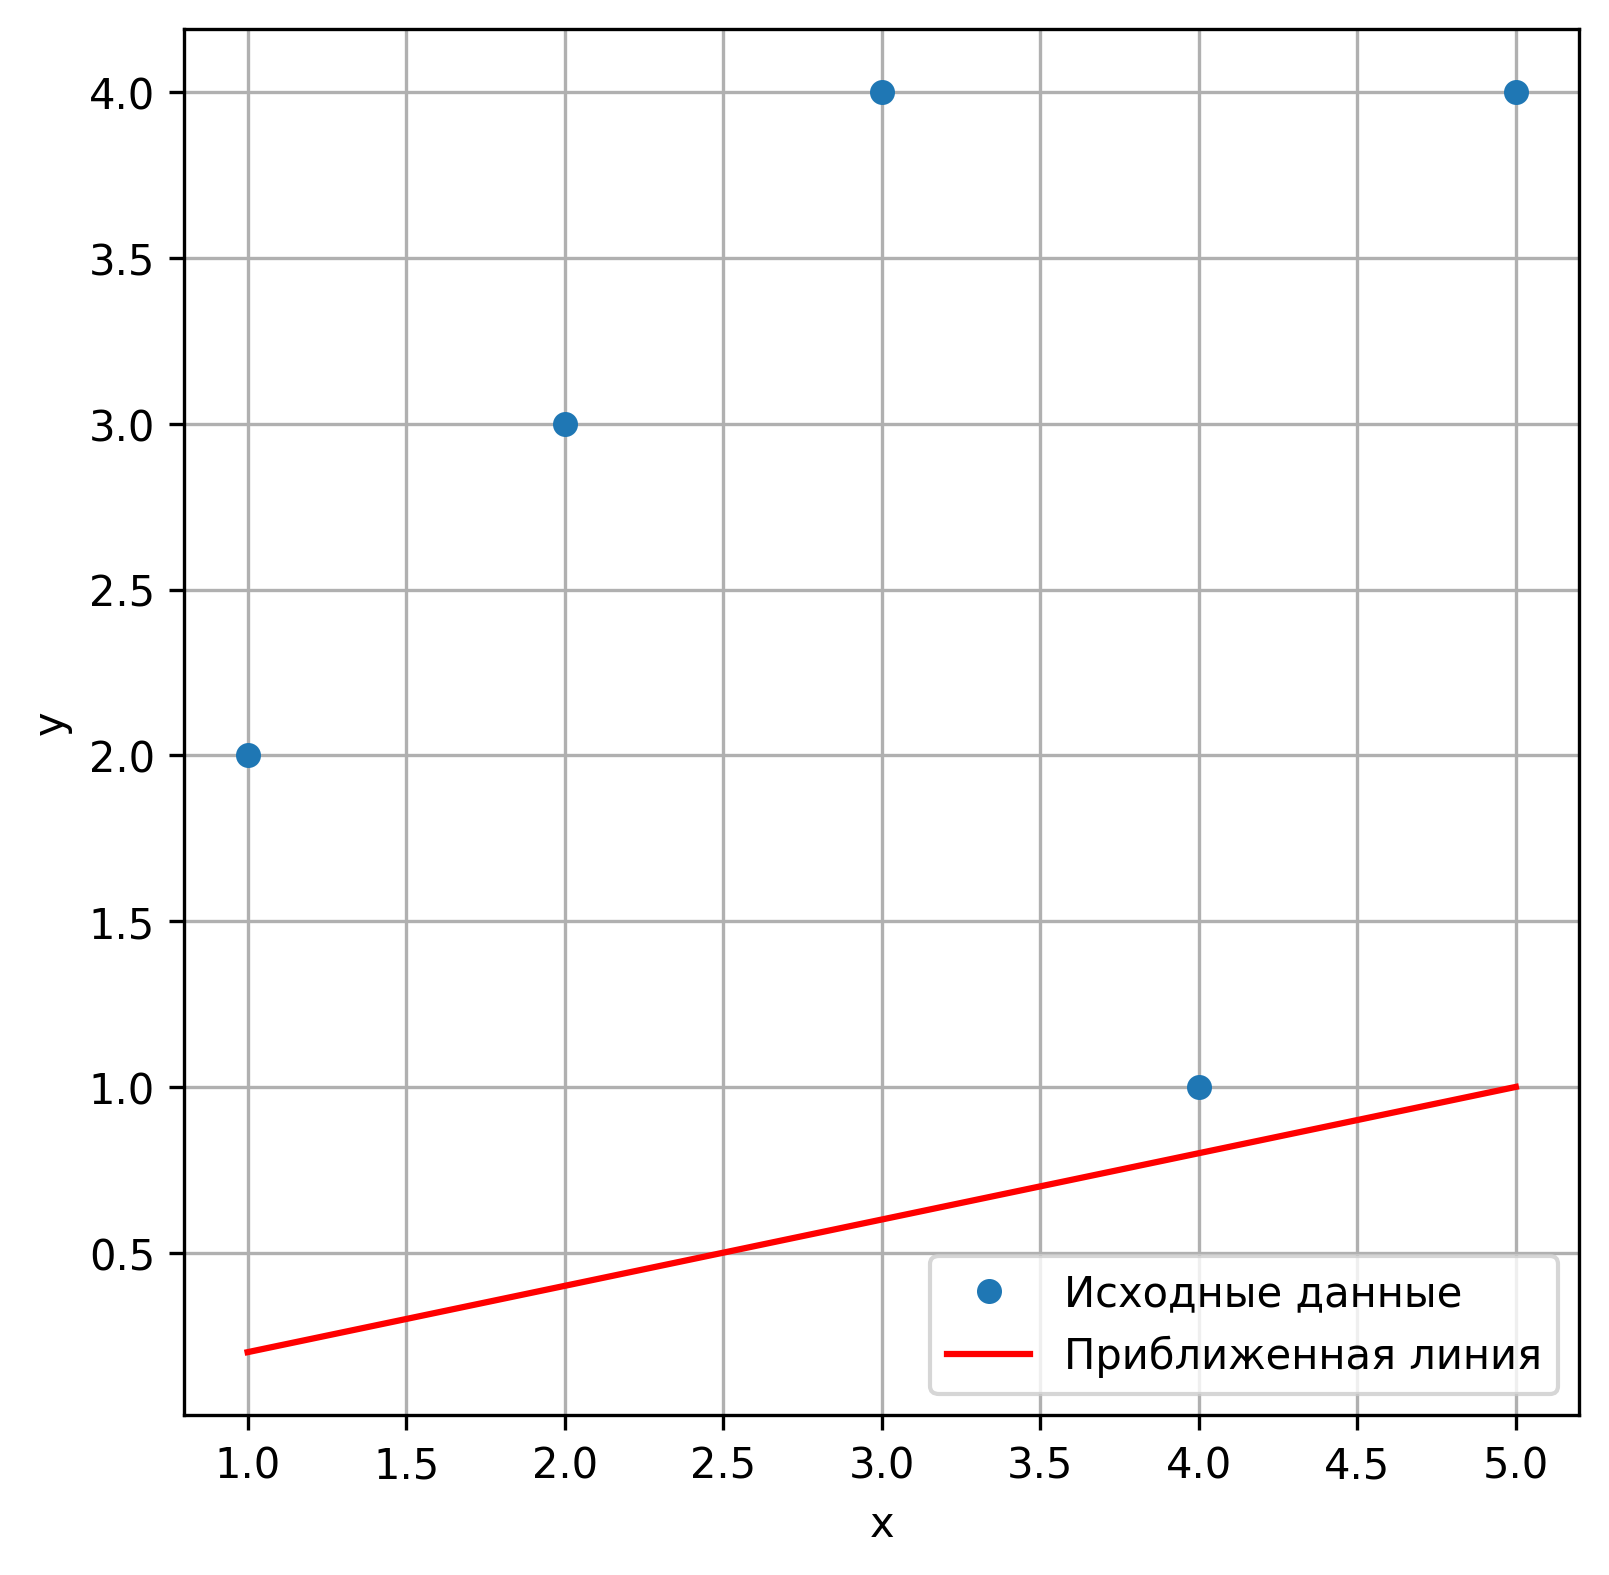
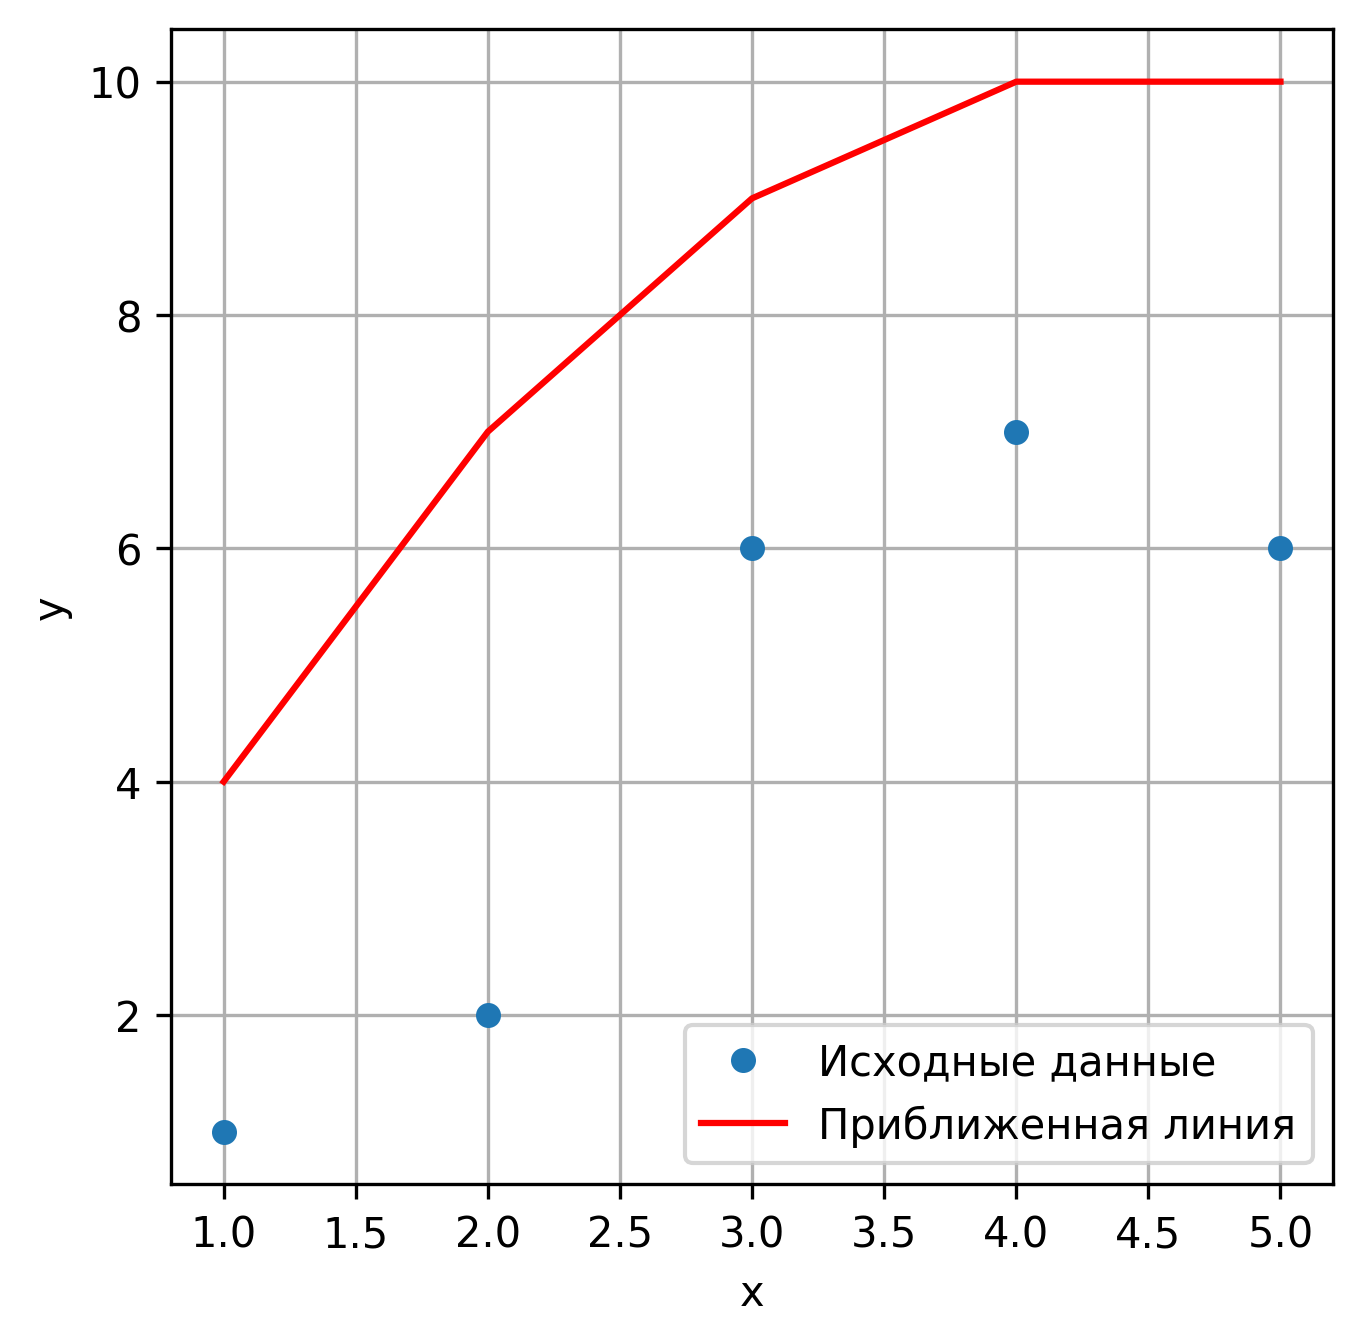
добавление сортировки иксов

diff --git a/UP02_group_3/approx_2dg.py b/UP02_group_3/approx_2dg.py
@@ -12,8 +12,21 @@ def approx2():
             err_msg='Ошибка входных данных!'
 
             # Получение коэффициентов из формы
-            x = np.array(request.forms.get('X').split(), dtype=float)
-            y = np.array(request.forms.get('Y').split(), dtype=float)
+            x_arr = np.array(request.forms.get('X').split(), dtype=float)
+            y_arr = np.array(request.forms.get('Y').split(), dtype=float)
+
+            # Объединение массивов x и y в список пар
+            combined = list(zip(x_arr, y_arr))
+
+            # Сортировка списка пар по возрастанию значений x
+            combined.sort(key=lambda pair: pair[0])
+
+            # Разделение пар обратно на массивы x и y
+            x_sorted, y_sorted = zip(*combined)
+
+            # Преобразование обратно в массивы NumPy
+            x = np.array(x_sorted)
+            y = np.array(y_sorted)
 
             #проверка на то, чтобы график не был одной точкой
             trigg = False
@@ -29,9 +42,9 @@ def approx2():
                     trigg = False
 
             # Основные вычисления
-            A = np.vstack([x**2, x, np.ones(len(x))]).T #создание матрицы
+            A = np.vstack([x**2, x, np.ones(len(x))]).T #аппроксимация данных методом наименьших квадратов
             k, b, c = np.linalg.lstsq(A, y, rcond=None)[0] #получение коэффициентов квадратичной линии регрессии
-            y_pred = k*x**2 + b*x + c #аппроксимация данных методом наименьших квадратов
+            y_pred = k*x**2 + b*x + c 
             r2 = r2_score(y, y_pred)  #вычисление коэффициента детерминации
 
             # построение графика
@@ -54,10 +67,21 @@ def approx2():
         except:
             return template('approxim_2deg.tpl', title='Аппроксимация 2-й ст.', image_data='static\images\graph_strt.png', message=err_msg)
     else:
-        num_elements = 5  # Заданное количество элементов
-        x = np.array([1.0, 2.0, 3.0, 4.0, 5.0], dtype=float)
-        y = np.array([random.uniform(0.0, 100.0) for _ in range(num_elements)], dtype=float) 
+        num_elements = 10  # Заданное количество элементов
+        x_arr = np.array([random.uniform(0.0, 100.0) for _ in range(num_elements)], dtype=float)
+        y_arr = np.array([random.uniform(0.0, 100.0) for _ in range(num_elements)], dtype=float) 
+        # Объединение массивов x и y в список пар
+        combined = list(zip(x_arr, y_arr))
 
+        # Сортировка списка пар по возрастанию значений x
+        combined.sort(key=lambda pair: pair[0])
+
+        # Разделение пар обратно на массивы x и y
+        x_sorted, y_sorted = zip(*combined)
+
+        # Преобразование обратно в массивы NumPy
+        x = np.array(x_sorted)
+        y = np.array(y_sorted)
         # Основные вычисления
         A = np.vstack([x**2, x, np.ones(len(x))]).T
         k, b, c = np.linalg.lstsq(A, y, rcond=None)[0]
@@ -75,6 +99,6 @@ def approx2():
 
         plt.savefig('static/images/square2.png', dpi=300, bbox_inches='tight') #сохранение построенного графика
 
-        msg='X = {}; Y = {} \nКоэффициенты квадратичной линии регрессии: a0={}, a1={} a2={} \nКоэффициент детерминированности R2={}'.format(x, y.round(), k.round(), b.round(), c.round(), r2.round())
+        msg='X = {}; Y = {} \nКоэффициенты квадратичной линии регрессии: a0={}, a1={} a2={} \nКоэффициент детерминированности R2={}'.format(x.round(), y.round(), k.round(), b.round(), c.round(), r2.round())
         # Возвращает темплейт
         return template('approxim_2deg.tpl', title='Аппроксимация 2-й ст.', image_data='static\images\square2.png', message=msg)
